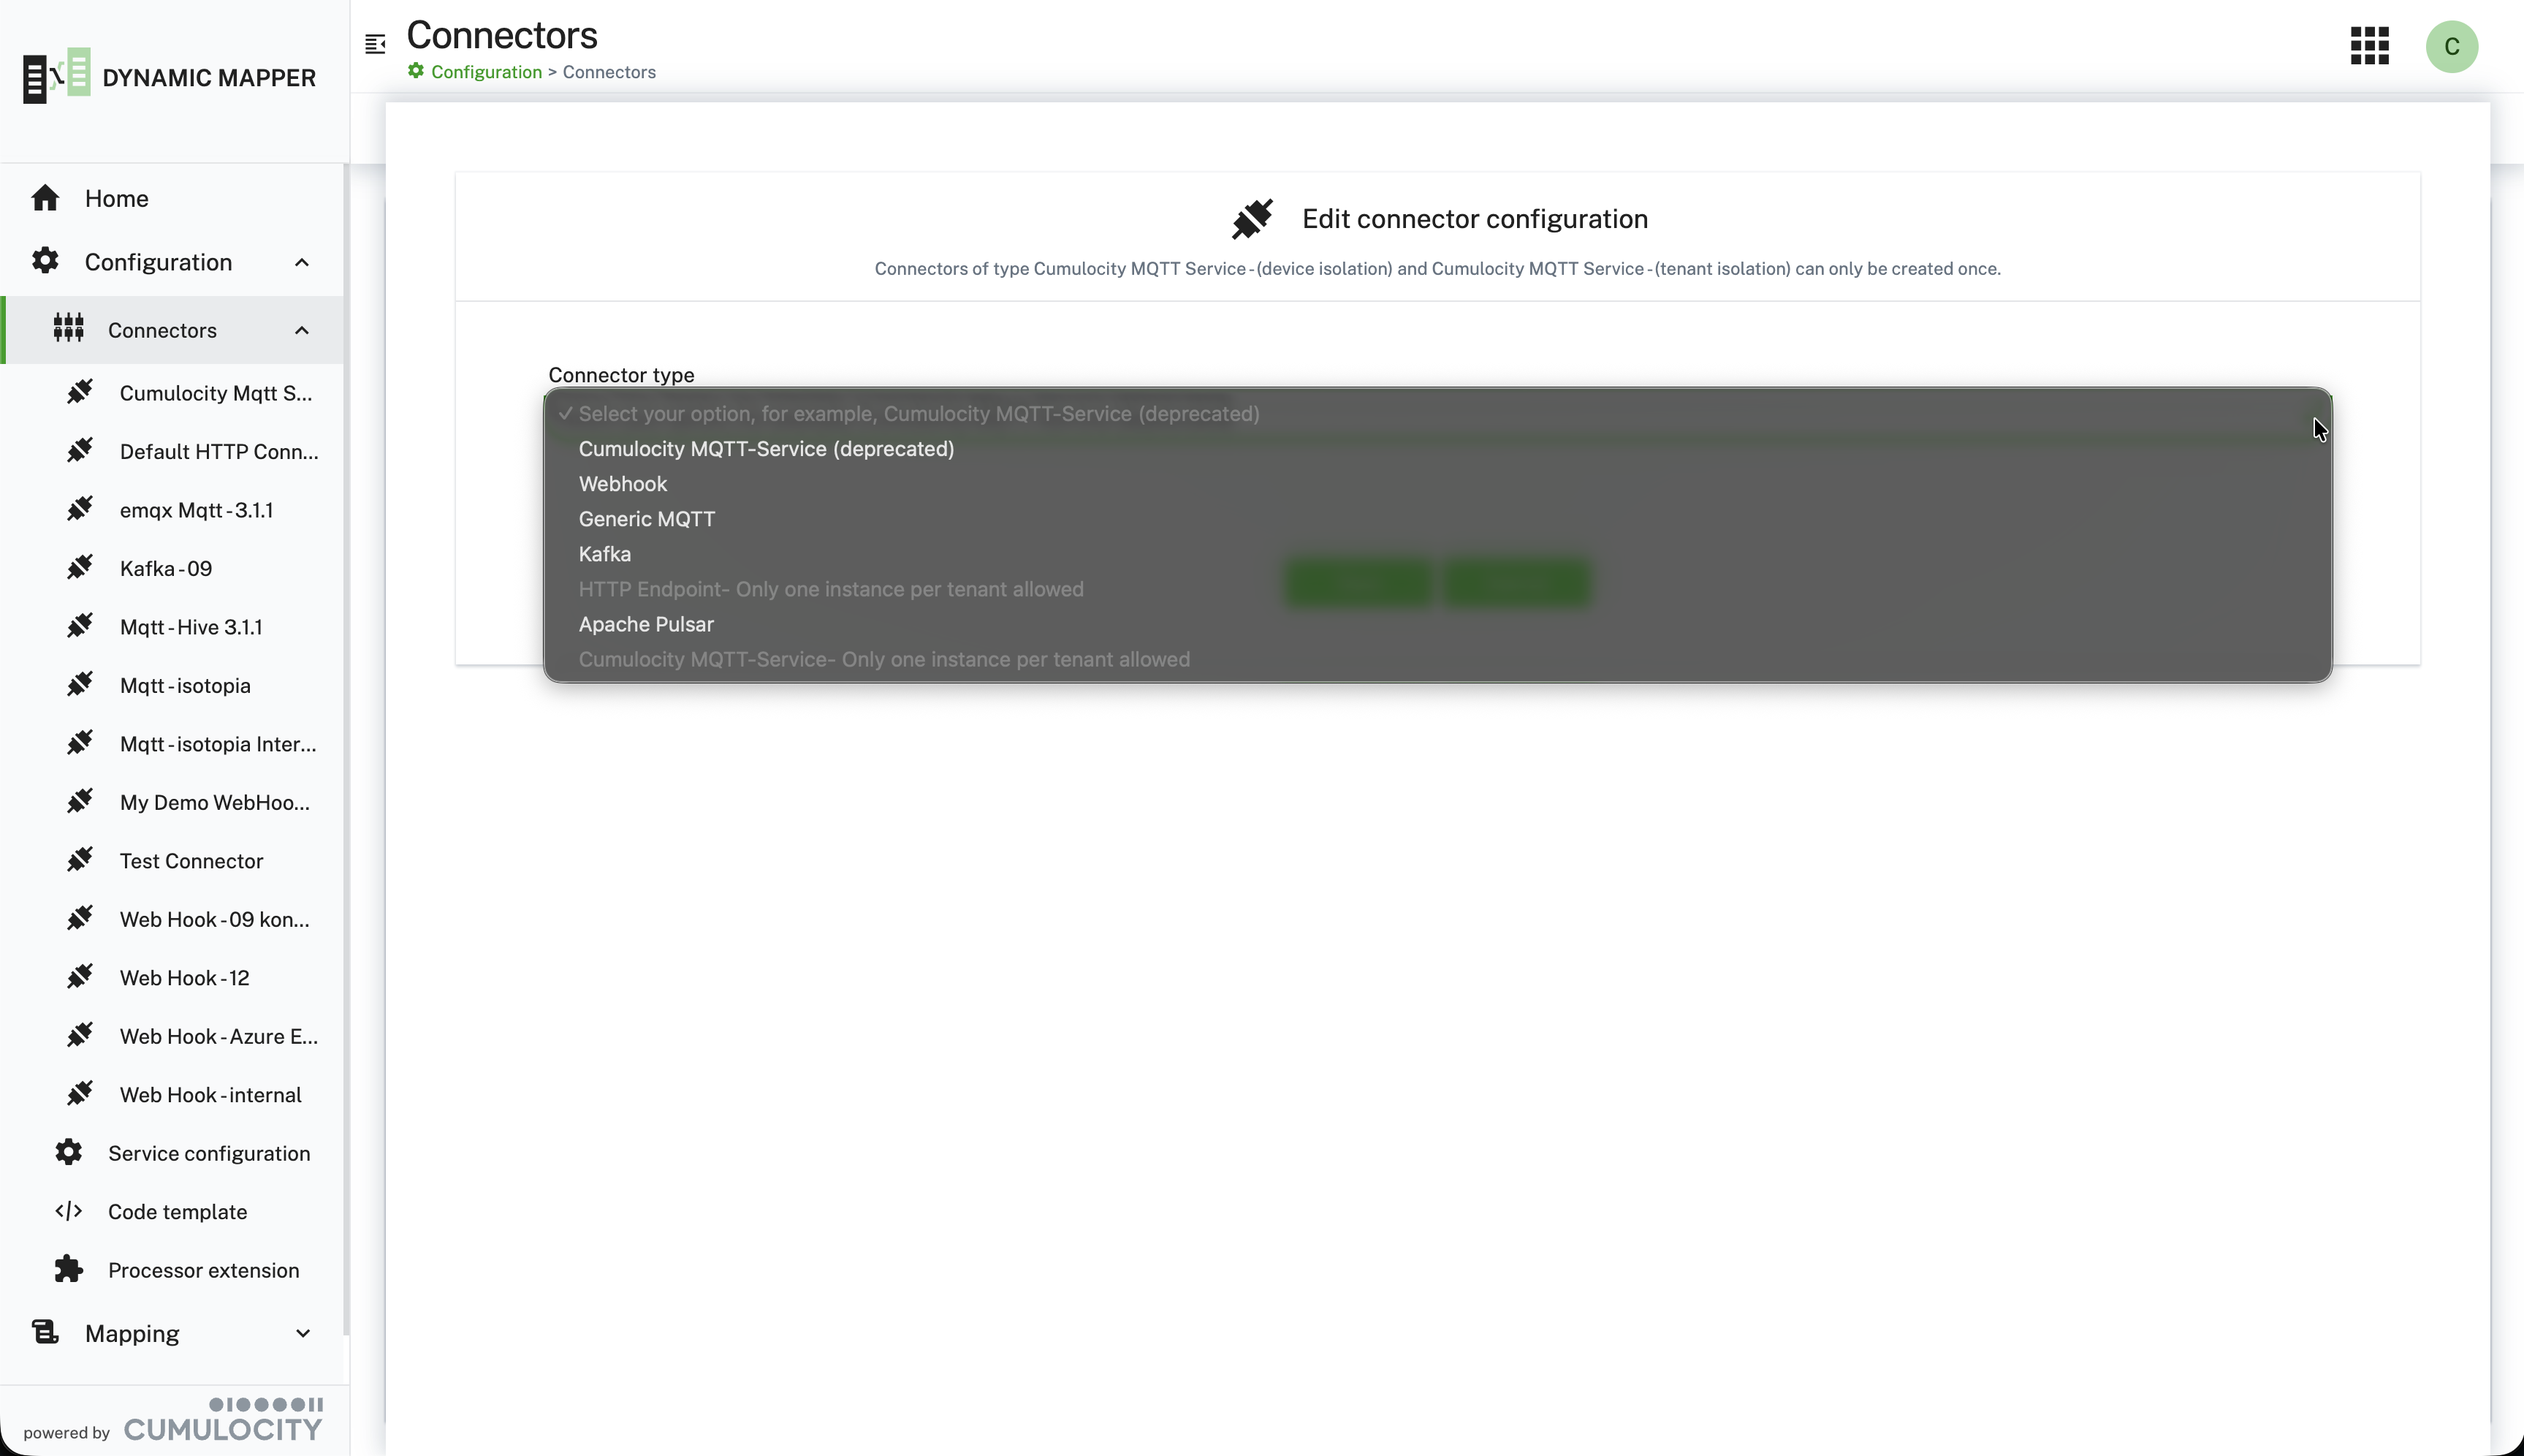
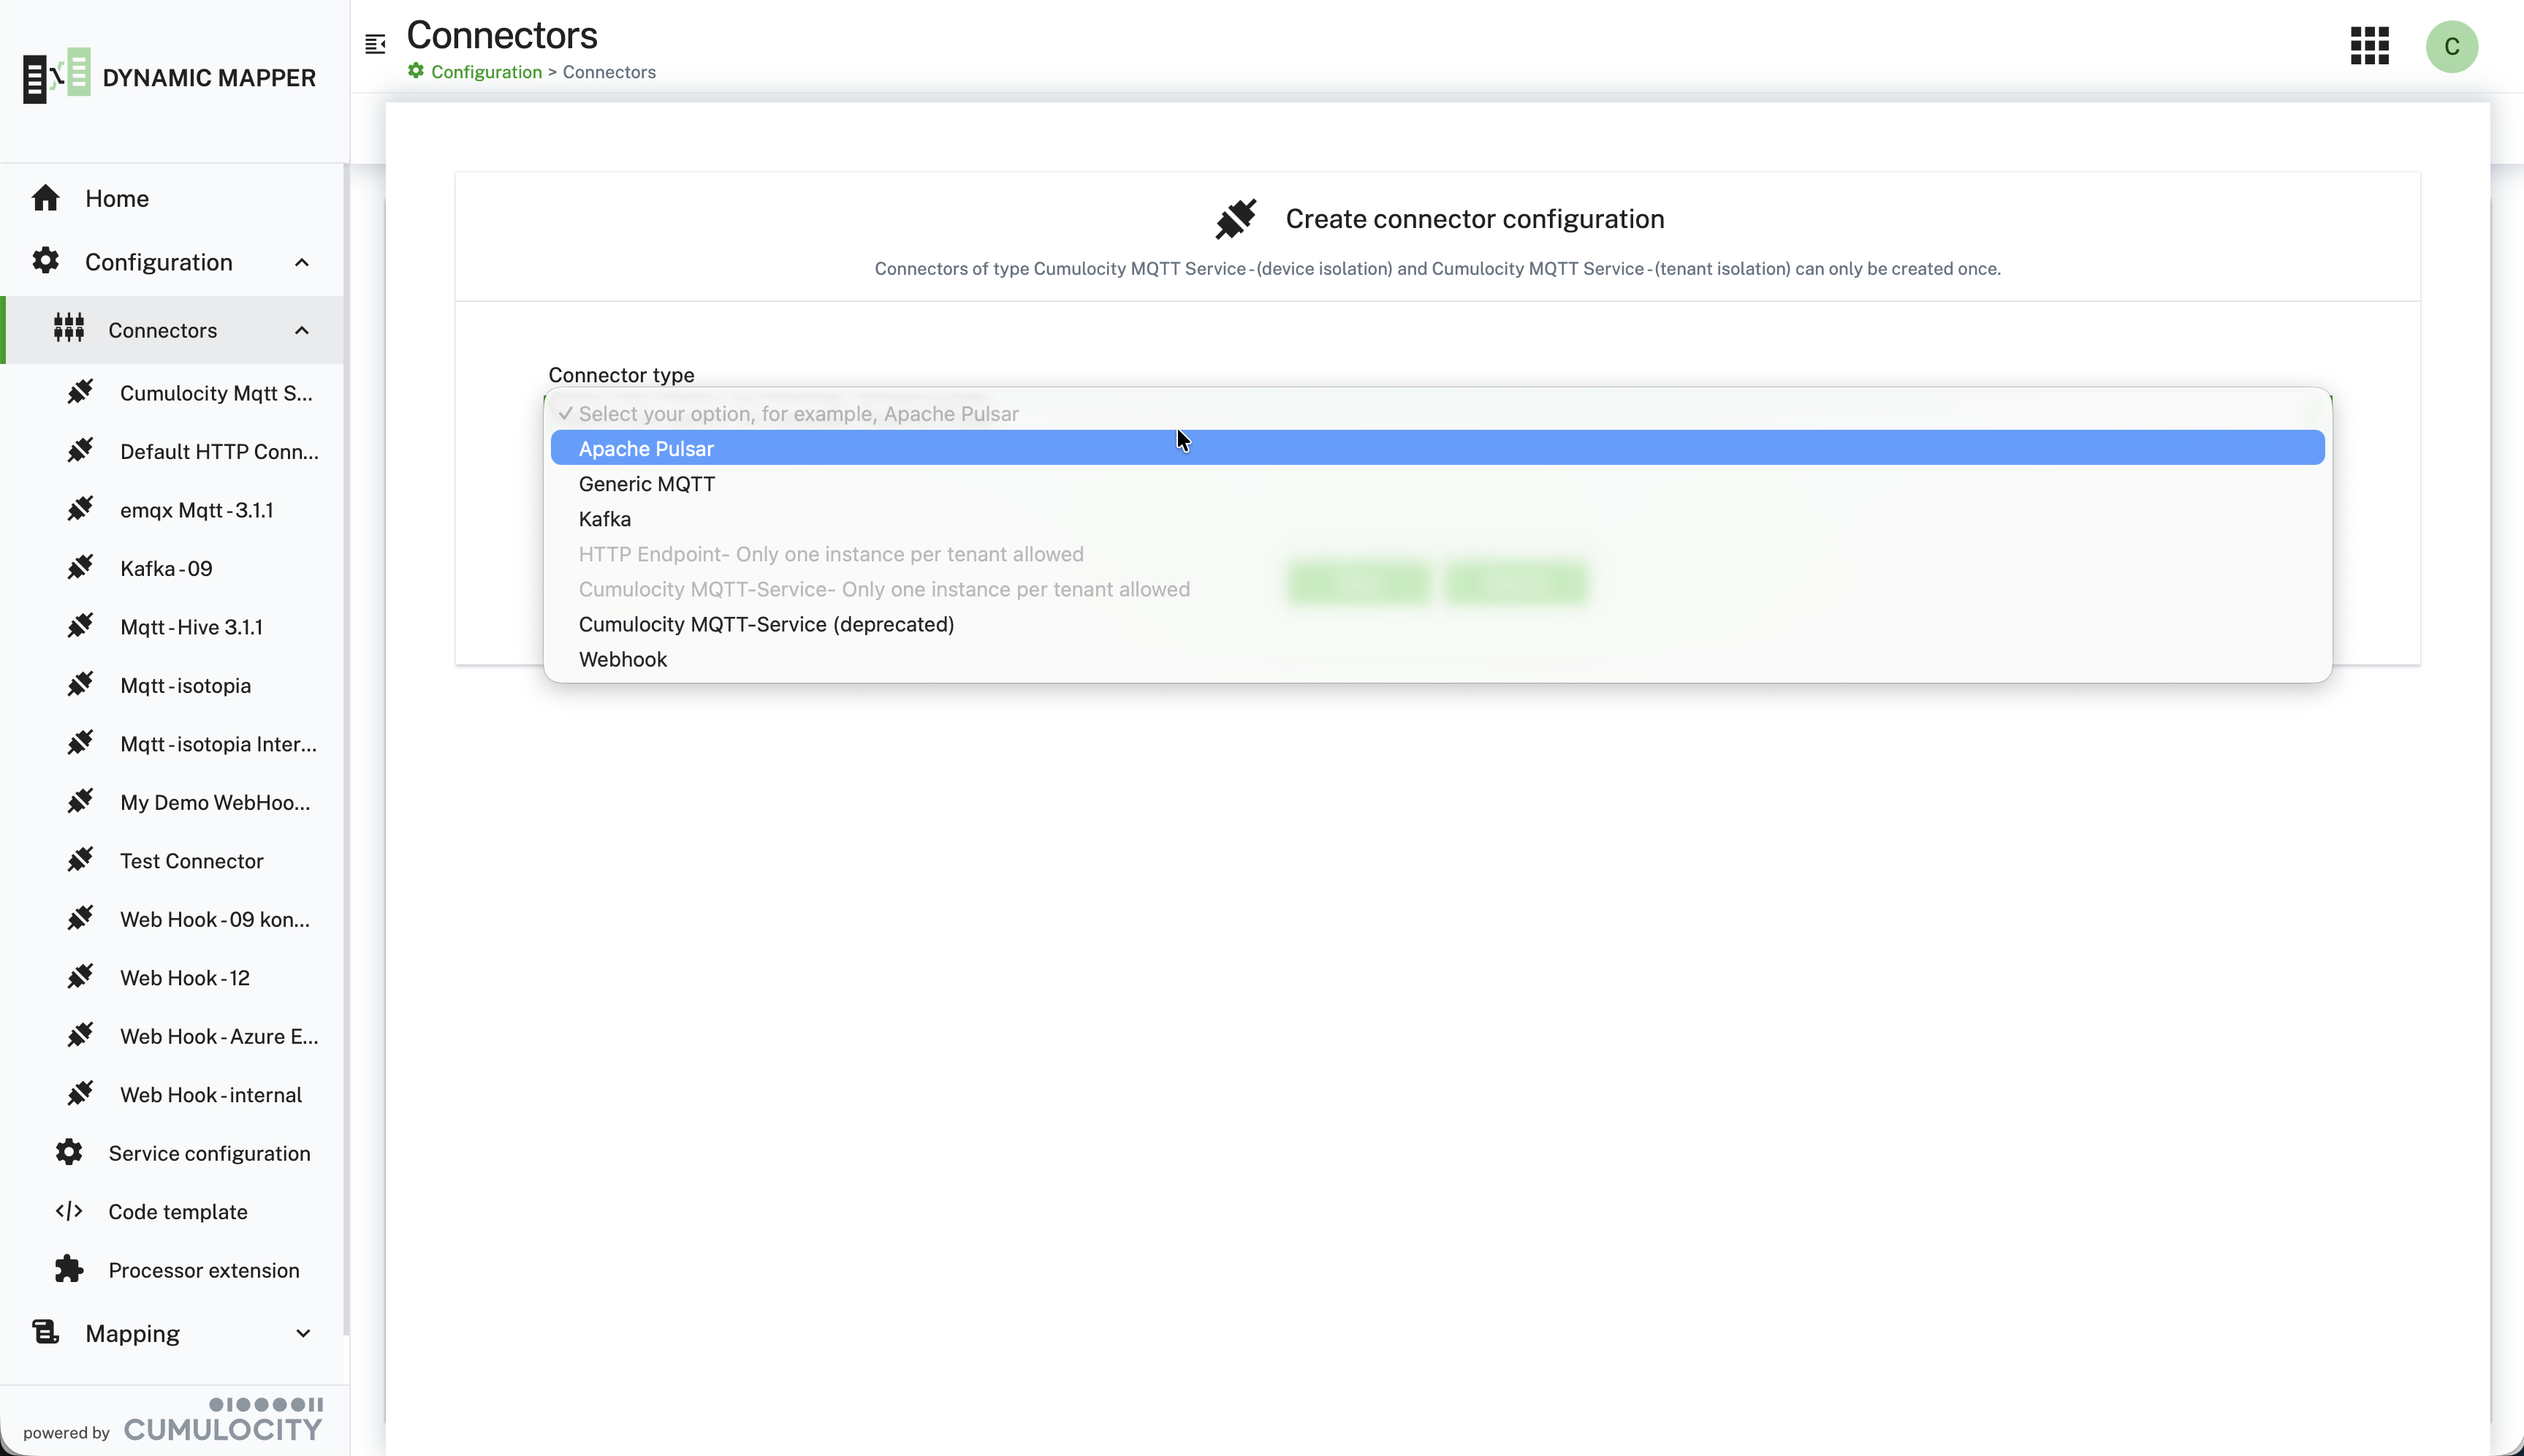
update documentation

diff --git a/dynamic-mapper-ui/src/landing/landing.component.html b/dynamic-mapper-ui/src/landing/landing.component.html
@@ -37,7 +37,7 @@
     <ul class="text-16" style="list-style-type: decimal;">
       <li><a (click)="scrollToElement('overview')" style="cursor: pointer;">{{ 'Overview of Dynamic Mapper' | translate
           }}</a></li>
-      <li><a (click)="scrollToElement('supported-connectors')" style="cursor: pointer;">{{ 'Supported connectors' |
+      <li><a (click)="scrollToElement('managing-connectors')" style="cursor: pointer;">{{ 'Managing connectors' |
           translate }}</a></li>
       <li><a (click)="scrollToElement('define-mapping')" style="cursor: pointer;">{{ 'Defining a mapping' | translate
           }}</a></li>
@@ -126,13 +126,14 @@
       (mapping rules).</p>
   </div>
 
-  <div class="card-header" id="supported-connectors">
+  <div class="card-header" id="managing-connectors">
     <h3>
-      {{ 'Supported connectors' | translate }}
+      {{ 'Managing connectors' | translate }}
     </h3>
   </div>
   <div class="card-block">
-    <div class="p-b-8 text-16"> The mapper supports the following connectors and mappings:</div>
+    <div class="p-b-8 text-16"> The first step when working with the dynamic mapper is to create a connector. The mapper
+      supports the following connectors and mappings:</div>
 
     <div class="table-responsive table-width-80">
       <table class="table _table-striped">
@@ -209,6 +210,13 @@
         </tbody>
       </table>
     </div>
+
+    <div class="p-b-8 text-16"> A new connector is created using the following wizard. Ths is part of the Configuration -> Connectors UI.</div>
+      <img width="70%" class="m-l-48 m-b-48"
+        src="/apps/c8y-pkg-dynamic-mapper/image/Dynamic_Mapper_Connector_New.png"
+        alt="Payload type " />
+      <p class="image-description"><b>Description:</b> Creating a new connector.</p>
+      <br />
   </div>
 
   <div class="card-header" id="define-mapping">

diff --git a/dynamic-mapper-ui/src/shared/connector-configuration/edit/connector-configuration-drawer.component.ts b/dynamic-mapper-ui/src/shared/connector-configuration/edit/connector-configuration-drawer.component.ts
@@ -27,6 +27,7 @@ import {
   ConnectorPropertyType,
   ConnectorSpecification,
   ConnectorType,
+  Feature,
   FormatStringPipe,
   nextIdAndPad,
   SharedService
@@ -57,6 +58,7 @@ export class ConnectorConfigurationDrawerComponent implements OnInit {
   labels: ModalLabels = { ok: 'Save', cancel: 'Cancel' };
   description: string;
   readOnly: boolean;
+  feature: Feature;
 
   private _save: (value: ConnectorConfiguration) => void;
   private _cancel: (reason?: any) => void;
@@ -80,8 +82,11 @@ export class ConnectorConfigurationDrawerComponent implements OnInit {
   sharedService = inject(SharedService);
   formatStringPipe = inject(FormatStringPipe);
   cd = inject(ChangeDetectorRef);
+  mode: string;
 
   async ngOnInit() {
+    this.feature = await this.sharedService.getFeatures();
+    this.mode = this.add ? 'Create': 'Update';
     this.setConnectorDescription();
     this.initializeBrokerFormFields();
     this.readOnly = this.configuration.enabled;

diff --git a/dynamic-mapper-ui/src/shared/connector-configuration/edit/connector-configuration-drawer.component.html b/dynamic-mapper-ui/src/shared/connector-configuration/edit/connector-configuration-drawer.component.html
@@ -24,7 +24,7 @@
     <div class="card-header separator" style="justify-content: center">
       <h4 class="card-title d-flex">
         <i [c8yIcon]="'connected'" class="icon-32 m-r-16"></i>
-        <span class="m-t-8">Edit connector configuration</span>
+        <span class="m-t-8">{{mode}} connector configuration</span>
       </h4>
       <small class="text-muted p-t-8">
         Connectors of type Cumulocity MQTT Service - (device isolation) and Cumulocity MQTT Service - (tenant isolation)
